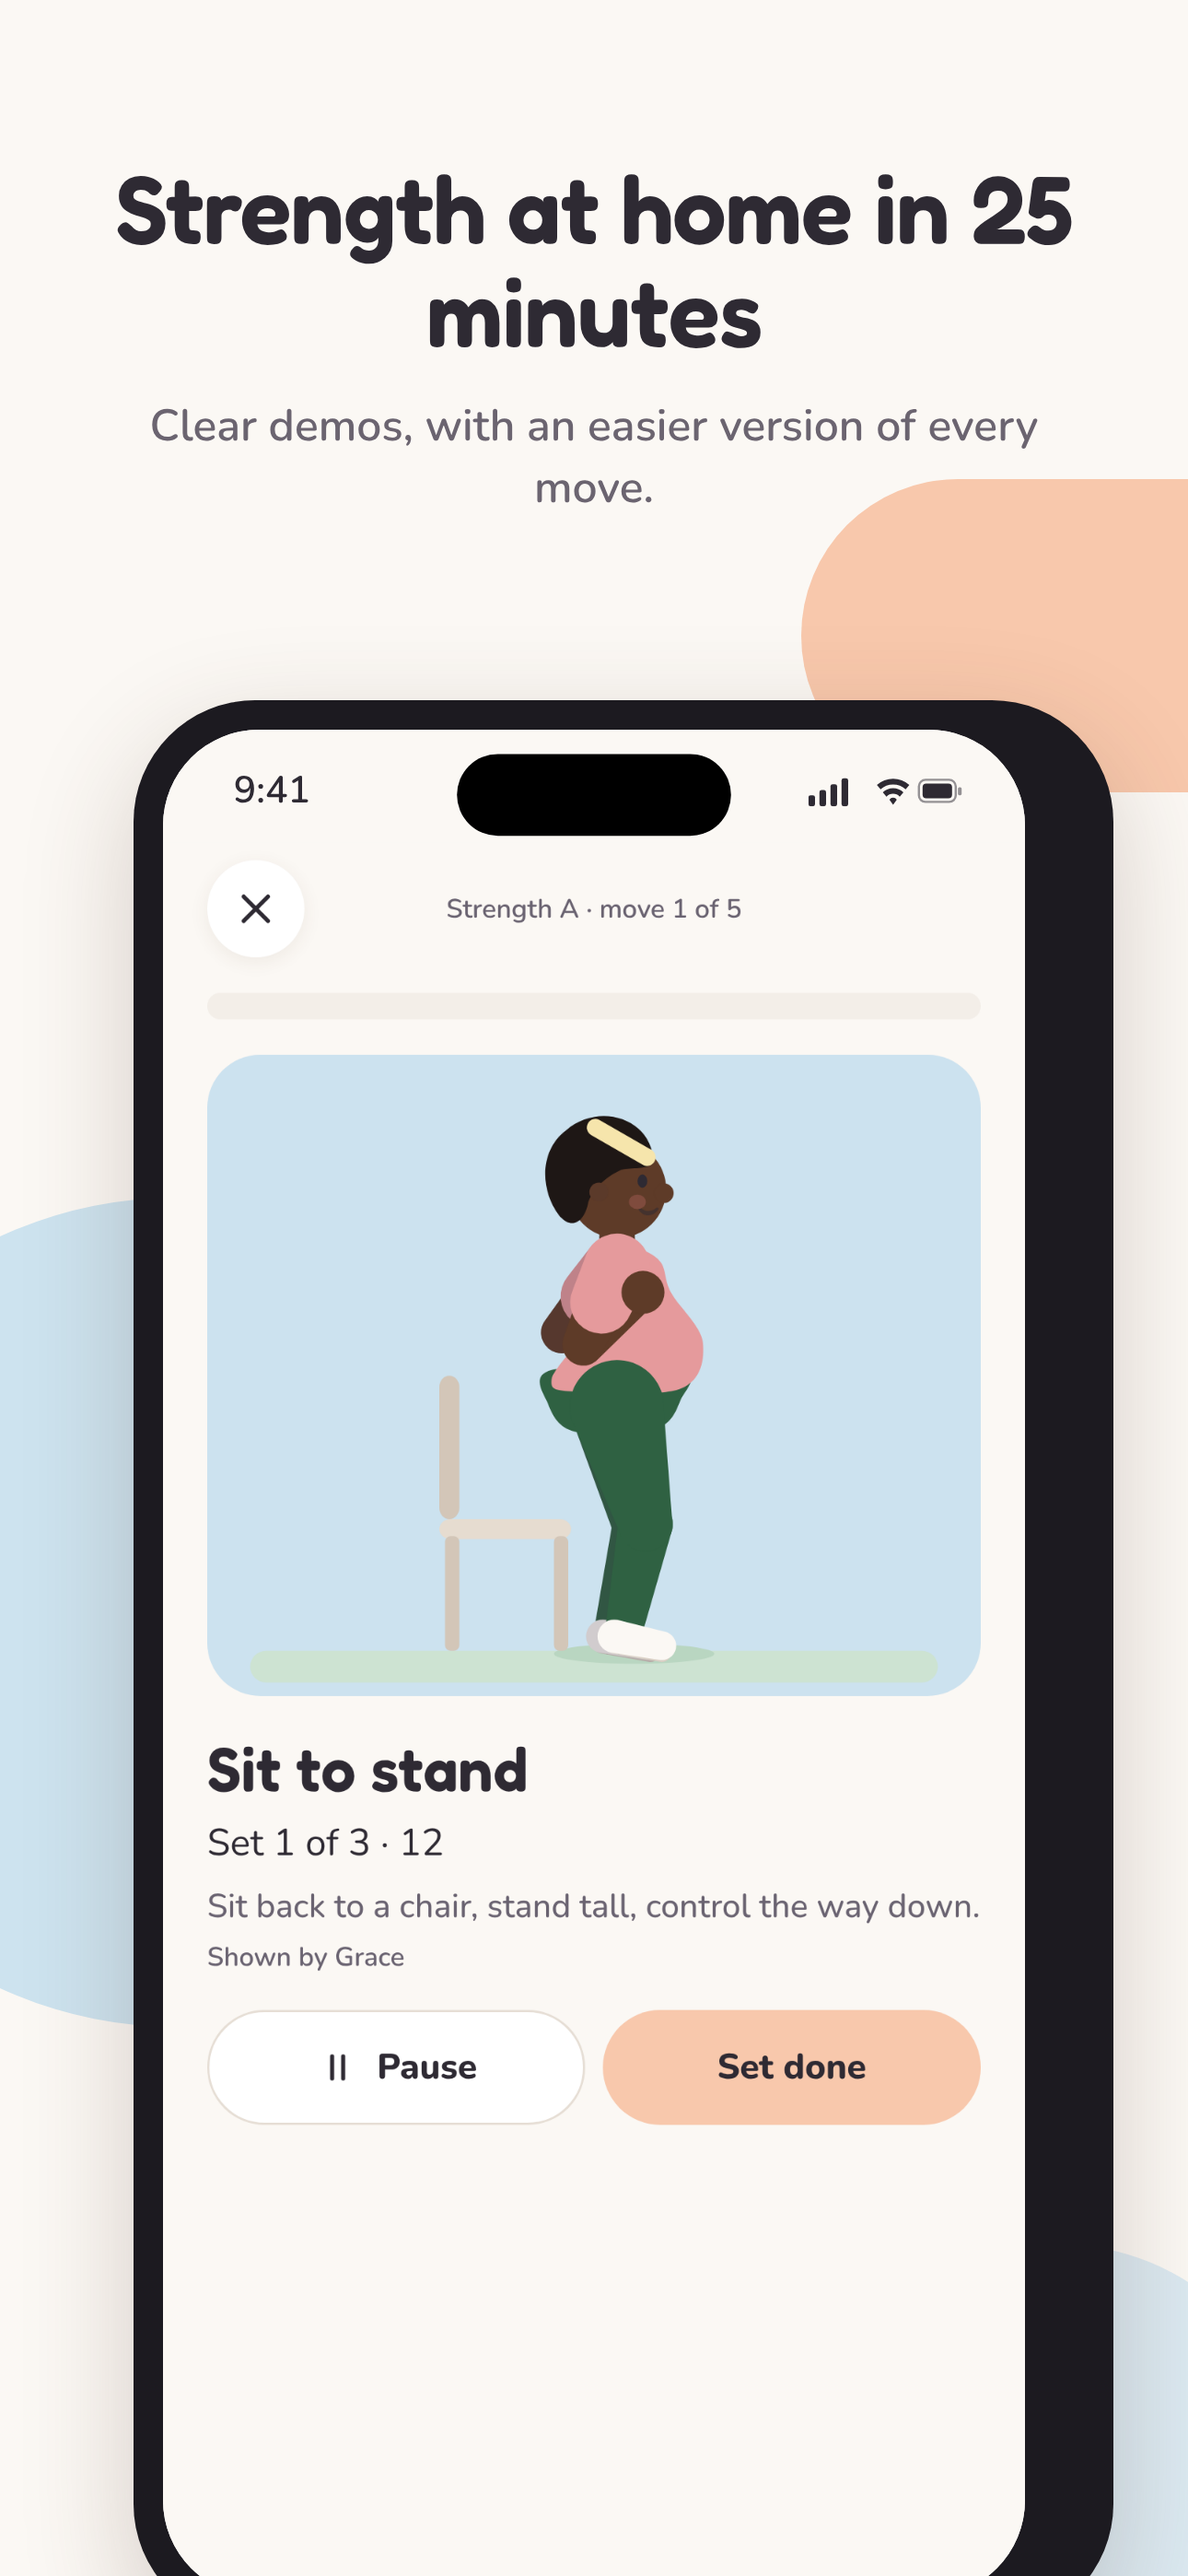
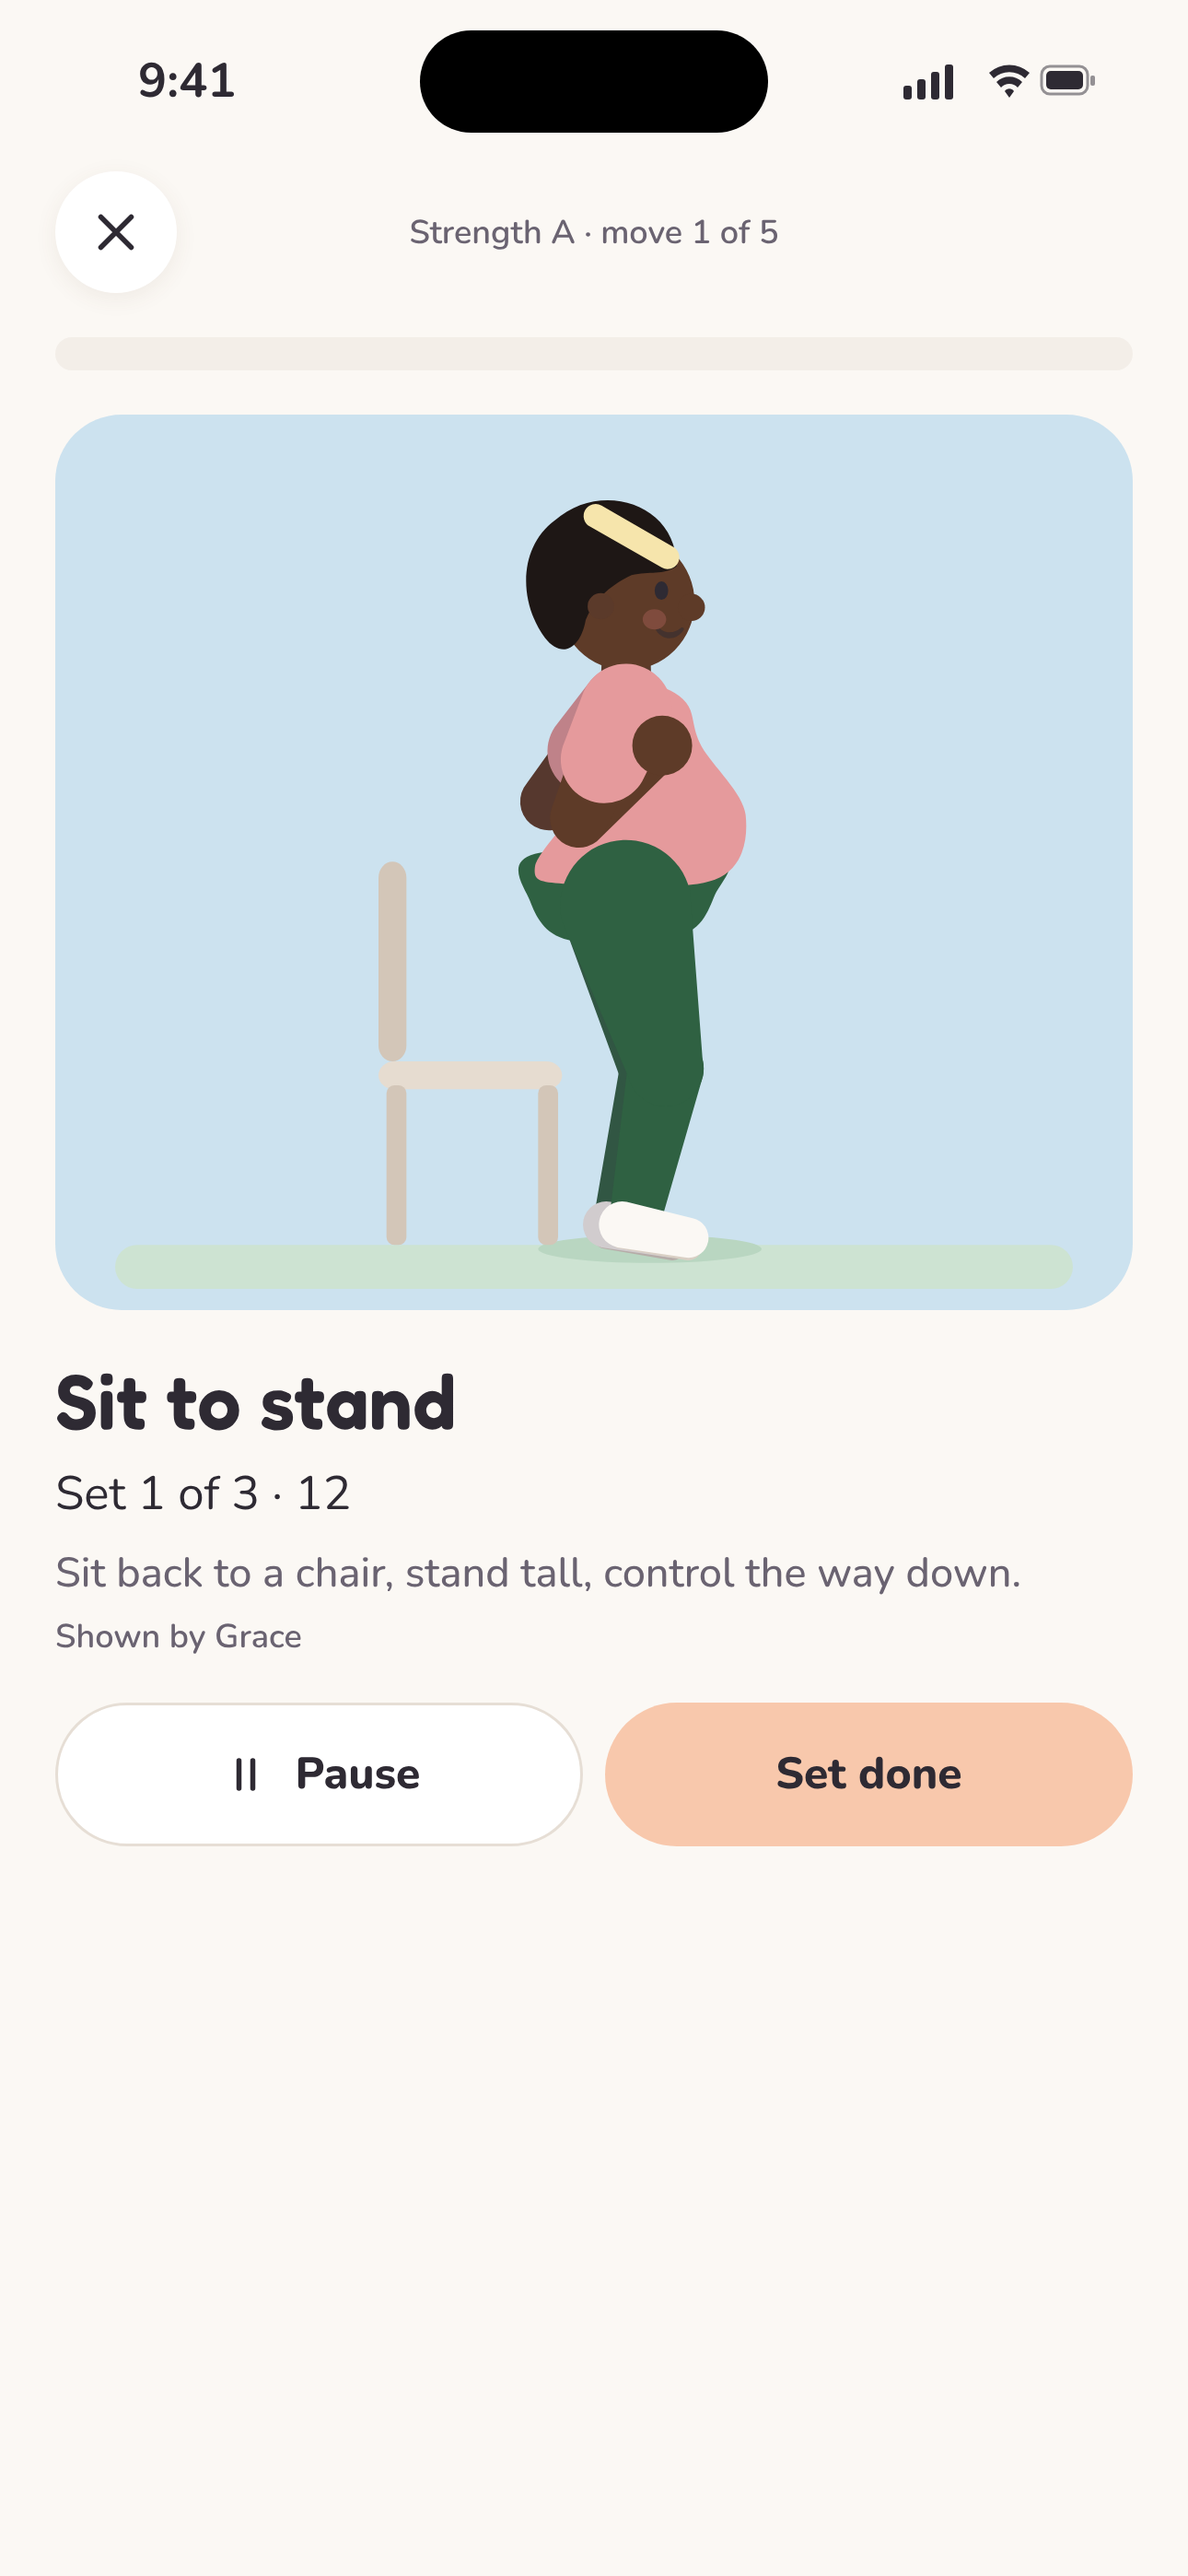
Make the App Store screenshots plain app screens
Full-screen 1290x2796 captures with an iOS status bar, no captions or frames, for framing elsewhere.

Claude-Session: https://claude.ai/code/session_01AV66JMDACUJL34nuHYoVE1

diff --git a/marketing/app-store/README.md b/marketing/app-store/README.md
@@ -1,10 +1,10 @@
 # App Store screenshots
 
-Nine screenshots for the App Store listing, at **1290 × 2796** (iPhone 6.9" display). App Store Connect scales them
-down for smaller iPhones, so this one set is enough. Upload them in this order under **App Store → iOS App → Previews
-and Screenshots → iPhone 6.9" Display**.
+Nine plain app screenshots at **1290 × 2796** (iPhone 6.9" display), with an iOS status bar and nothing else, for
+framing and captioning elsewhere. App Store Connect scales 6.9" screenshots down for smaller iPhones. The captions
+below are suggestions.
 
-| # | File | Caption |
+| # | File | Suggested caption |
 | --- | --- | --- |
 | 1 | `01-today.png` | Keep what you've worked for. A calm plan for the year after your weight-loss jab. |
 | 2 | `02-meals.png` | Easy meals, planned for you. High-protein dinners, leftovers and a takeaway night. |
@@ -21,5 +21,5 @@ screenshots show the app in use; they do. Captions avoid weight-loss promises an
 brand rules and UK advertising rules for health products.
 
 To remake them after the app changes: build the web app (`pnpm --filter @landing/mobile web:export`), open it in demo
-mode (hold the welcome picture for three seconds), capture each screen at 390 × 797 points at 3x, and frame them as
-these are (caption on oat, pastel shapes, phone frame with a 9:41 status bar).
+mode (hold the welcome picture for three seconds), capture each screen at 430 × 878 points at 3x, and add a 162 px
+iOS status bar (9:41) on top to make 1290 × 2796.
